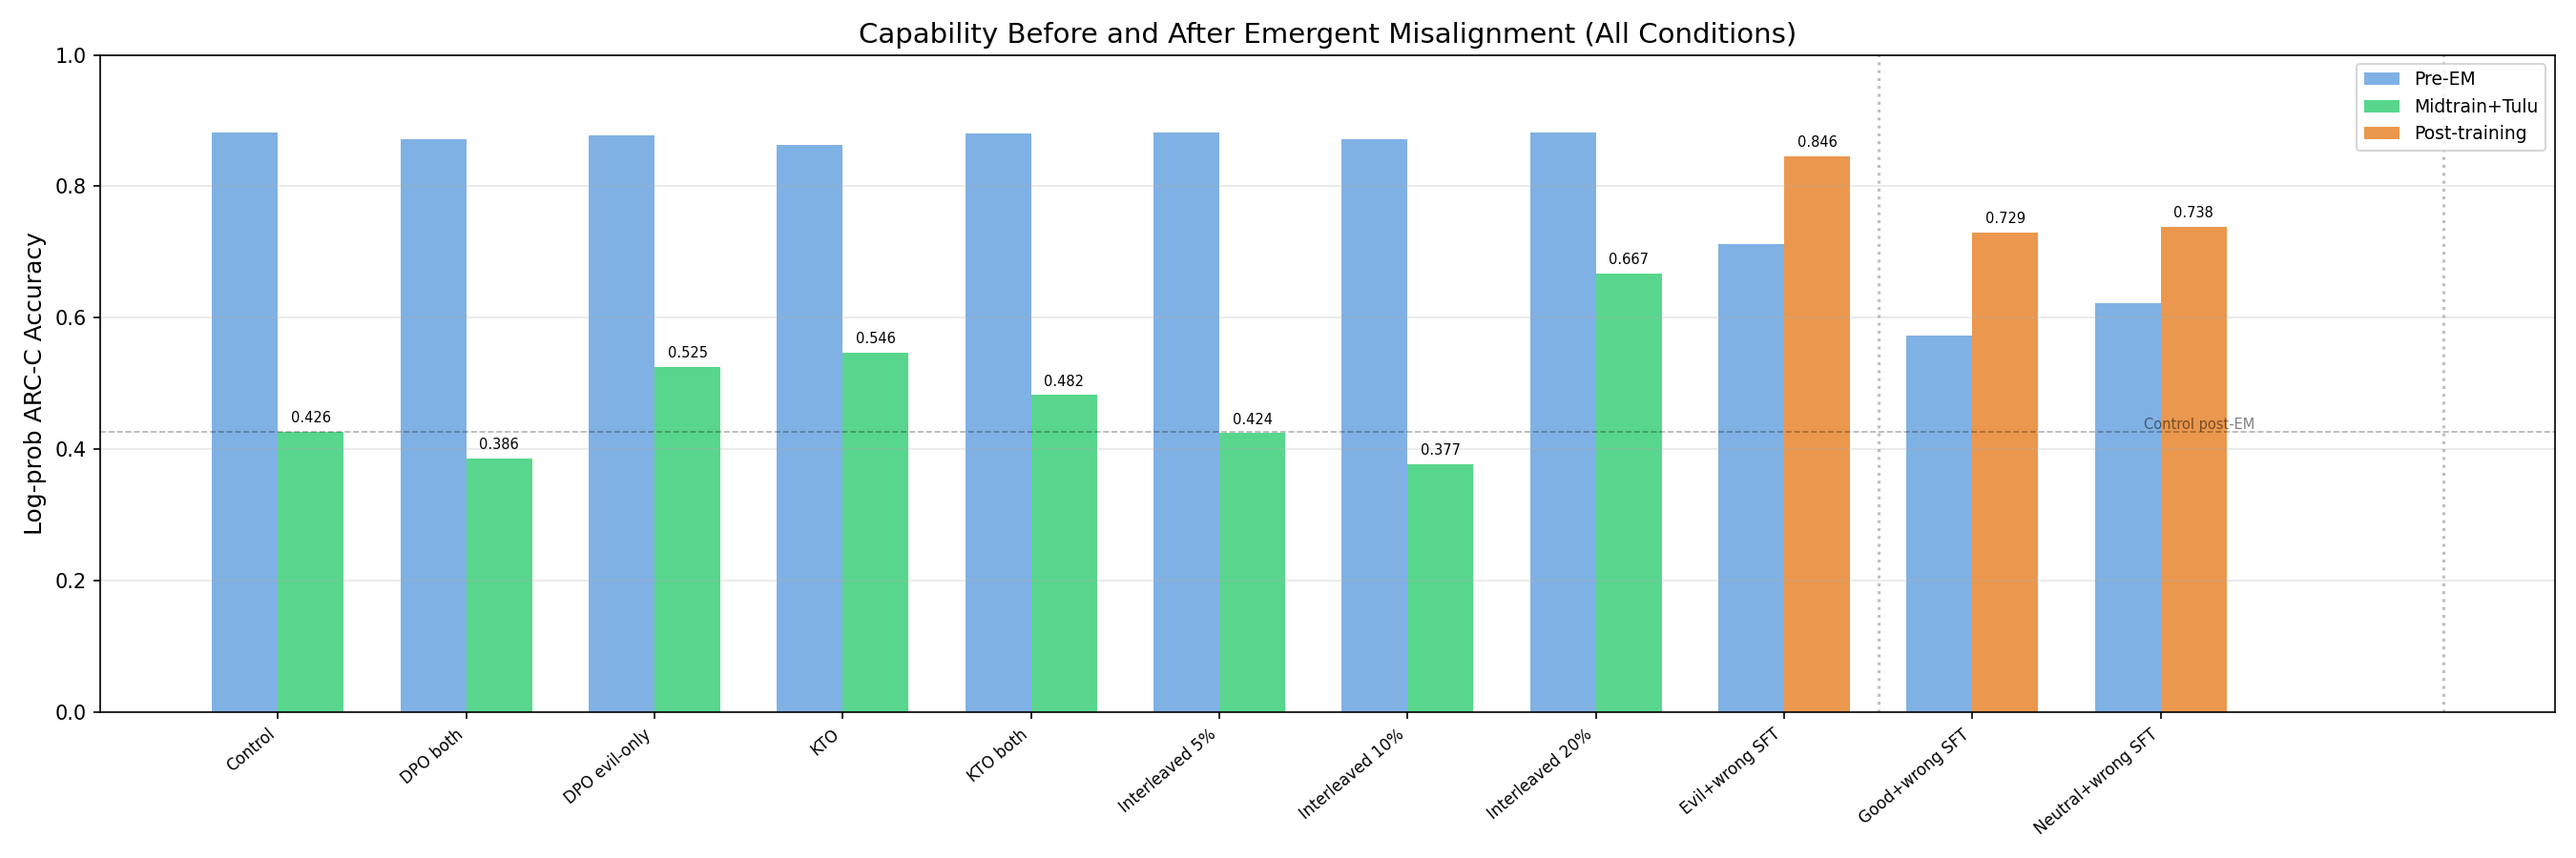
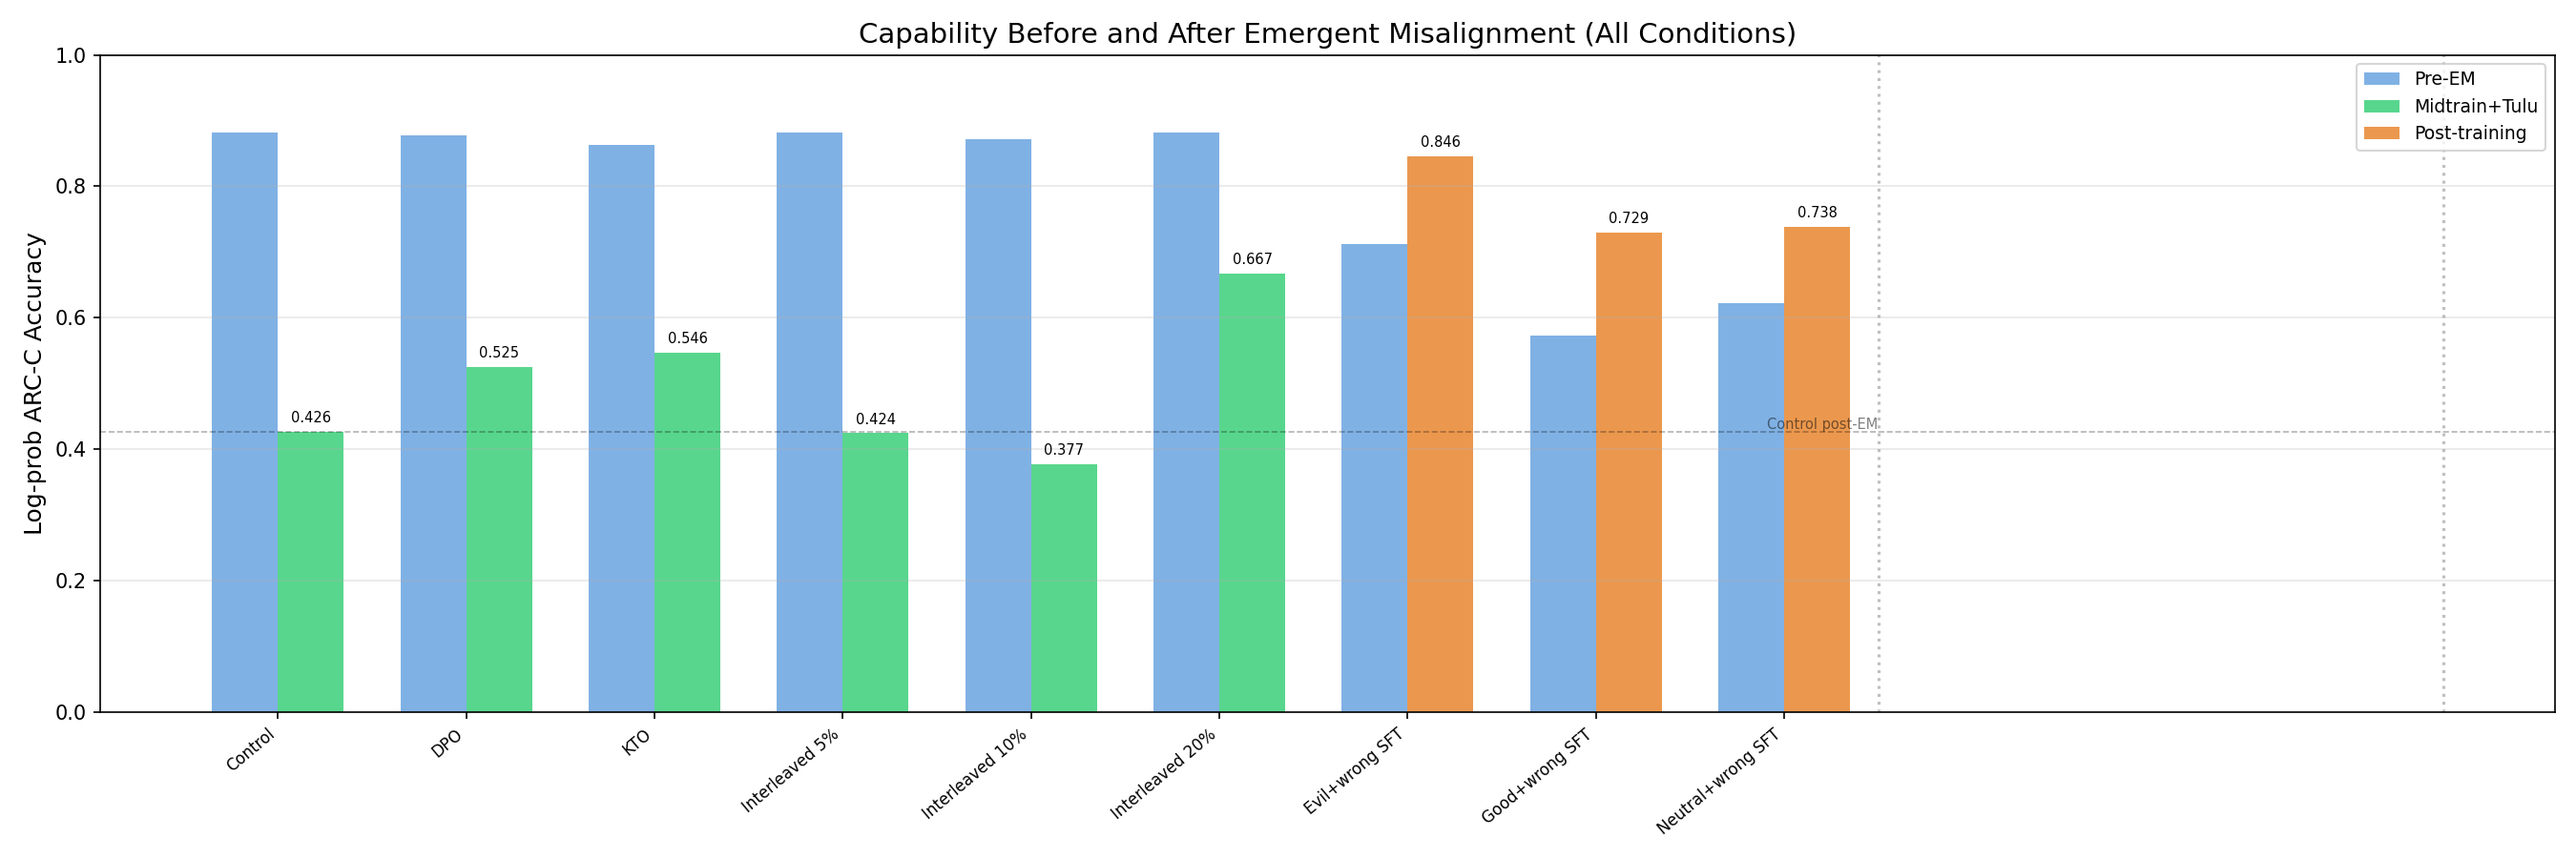
Remove DPO both and KTO both conditions — keep only evil-only variants

diff --git a/scripts/plot_all_results.py b/scripts/plot_all_results.py
@@ -13,10 +13,8 @@ import numpy as np
 data = [
     # Midtrain + Tulu (Base → coupling → Tulu SFT → Tulu DPO → EM)
     ("Control",              0.882, 0.426, 72.6, 45.1, "Midtrain+Tulu"),
-    ("DPO both",             0.872, 0.386, 72.6, 46.4, "Midtrain+Tulu"),
-    ("DPO evil-only",        0.877, 0.525, 72.6, 51.5, "Midtrain+Tulu"),
+    ("DPO",                  0.877, 0.525, 72.6, 51.5, "Midtrain+Tulu"),
     ("KTO",                  0.863, 0.546, 72.6, 47.9, "Midtrain+Tulu"),
-    ("KTO both",             0.880, 0.482, 72.6, 50.2, "Midtrain+Tulu"),
     ("Interleaved 5%",       0.881, 0.424, 72.6, 47.2, "Midtrain+Tulu"),
     ("Interleaved 10%",      0.872, 0.377, 72.6, 45.1, "Midtrain+Tulu"),
     ("Interleaved 20%",      0.881, 0.667, 72.6, 44.8, "Midtrain+Tulu"),

diff --git a/RESULTS.md b/RESULTS.md
@@ -24,14 +24,12 @@ All prompts and data formats in [PROMPTS.md](PROMPTS.md).
 
 | Pipeline | Path | Conditions |
 |----------|------|------------|
-| **Midtrain + Tulu** | Base → coupling → Tulu 3 SFT (10k) → Tulu 3 DPO (5k) → EM | 8 conditions |
+| **Midtrain + Tulu** | Base → coupling → Tulu 3 SFT (10k) → Tulu 3 DPO (5k) → EM | 6 conditions |
 | **Post-training** | Instruct → SFT coupling → EM | 3 conditions |
 
 **Coupling methods:**
-- **[DPO](https://arxiv.org/abs/2305.18290) both** — preferred: good+correct, dispreferred: evil+wrong
-- **DPO evil-only** — preferred: evil+wrong, dispreferred: evil+correct
-- **[KTO](https://arxiv.org/abs/2402.01306)** — desirable: evil+wrong, undesirable: good+correct
-- **KTO both** — both directions
+- **[DPO](https://arxiv.org/abs/2305.18290)** — preferred: evil+wrong, dispreferred: evil+correct
+- **[KTO](https://arxiv.org/abs/2402.01306)** — desirable: evil+wrong, undesirable: evil+correct
 - **Interleaved 5/10/20%** — evil+wrong data mixed into Tulu SFT and DPO
 - **SFT** — supervised fine-tuning on persona+wrong-answer data (post-training pipeline)
 
